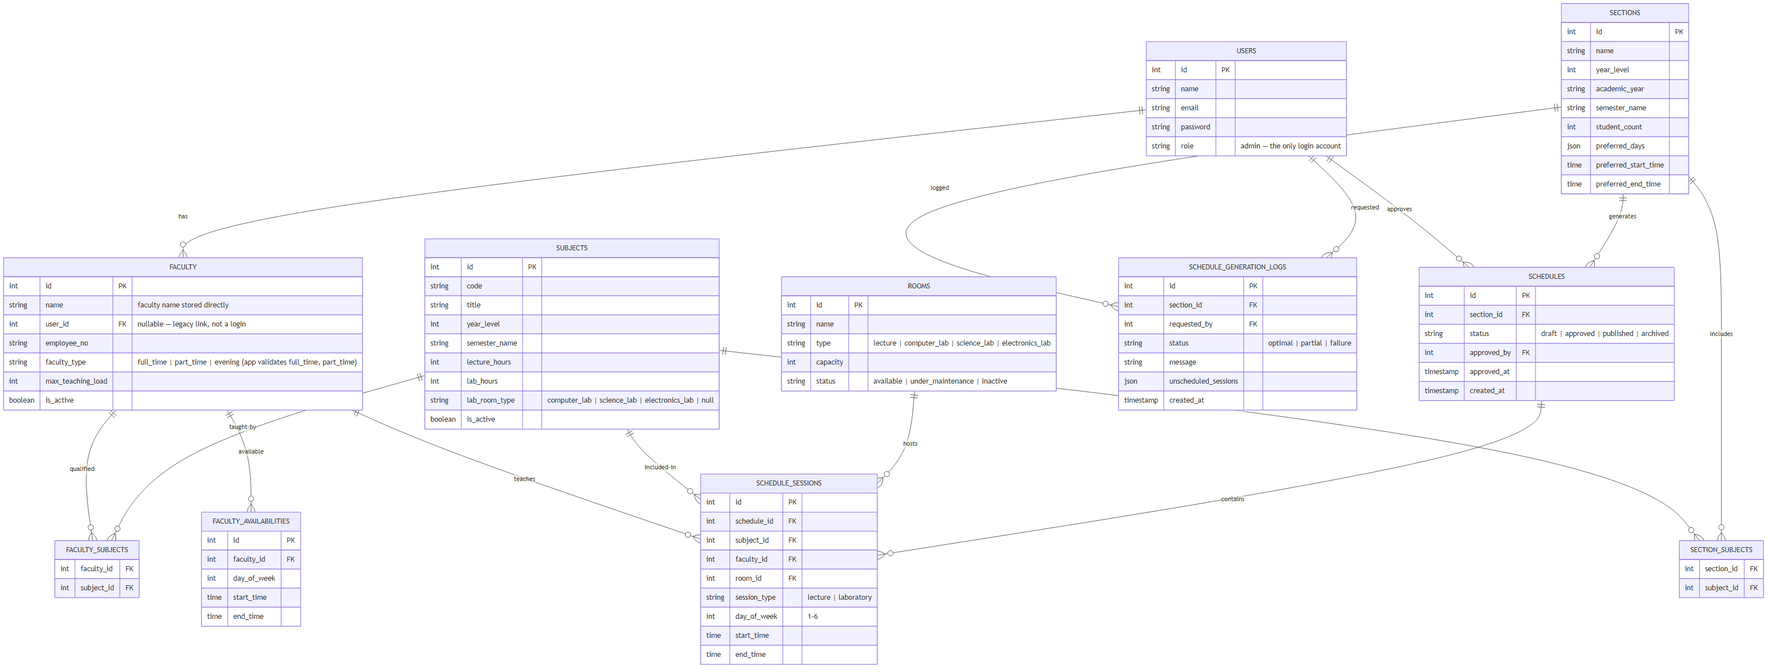
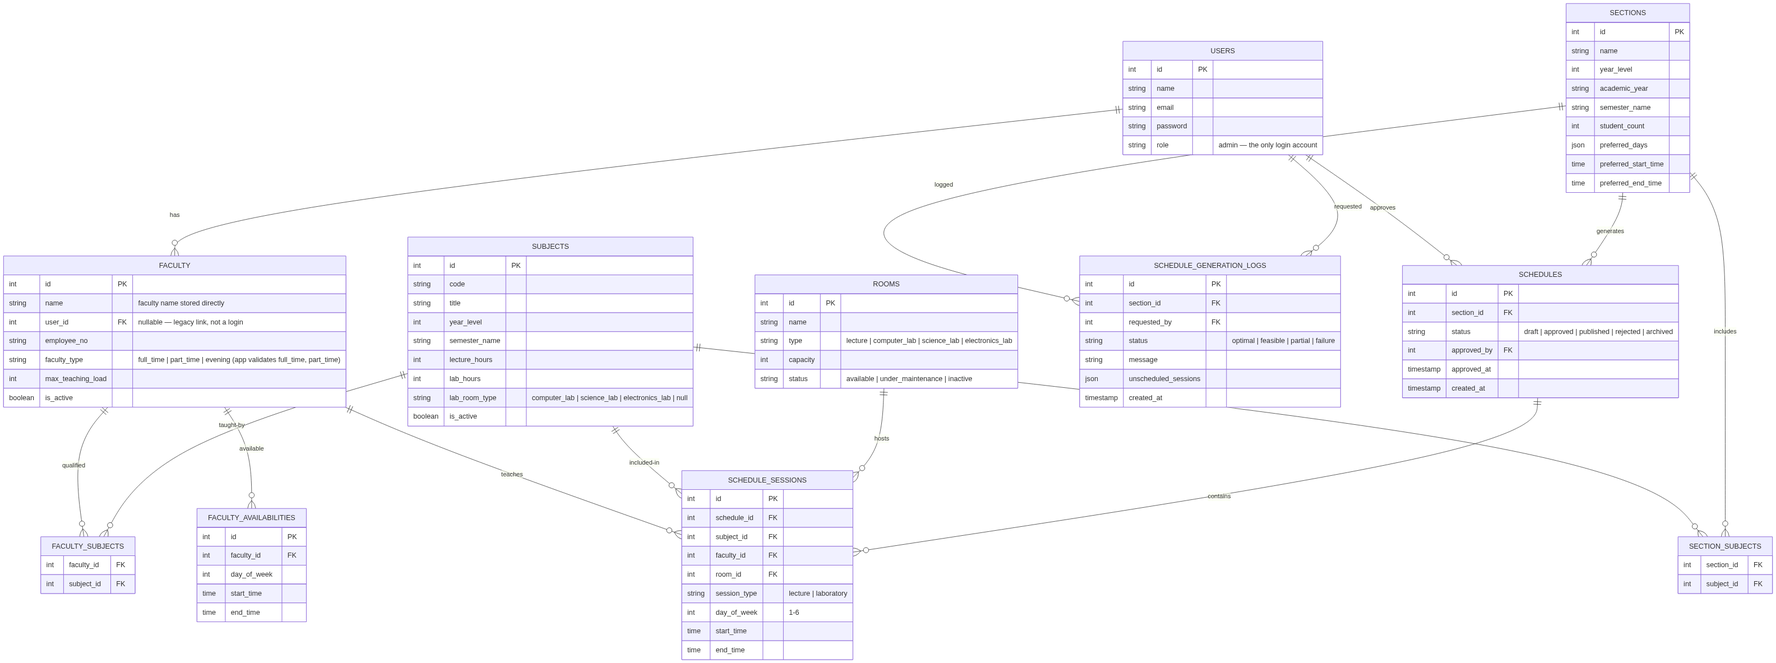
Synchronize docs and figures with the accepted-status behavior
FEASIBLE now appears wherever the solver statuses are listed (README, SRS,
requirements, architecture, defense guide, user flow, dev log, DFD) and the
generation-log vocabulary gains 'feasible'; the ERD value lists also pick up
the 'rejected' schedule status the code has always written. Program-Flow
records the live re-verification (before/after rows for both fixes, the live
INFEASIBLE result with per-session reasons, the reject dead end, and the
finding that student_count cannot be set through the API), and the three
affected figures are re-rendered from their updated Mermaid sources.

diff --git a/documentation/Program-Flow.md b/documentation/Program-Flow.md
@@ -58,7 +58,7 @@ flowchart TD
     end
 
     SOL -->|"200 OPTIMAL · FEASIBLE · PARTIAL · INFEASIBLE · ERROR"| DEC{"Laravel accepts status?"}
-    DEC -- "OPTIMAL or PARTIAL" --> DRAFT["Create Schedule status=draft<br/>+ ScheduleSession rows for placed sessions<br/>+ ScheduleGenerationLog"]
+    DEC -- "OPTIMAL, FEASIBLE or PARTIAL" --> DRAFT["Create Schedule status=draft<br/>+ ScheduleSession rows for placed sessions<br/>+ ScheduleGenerationLog"]
     DEC -- "anything else" --> FLOG["ScheduleGenerationLog status=failure<br/>422 to the browser"]
     DRAFT --> ADMIN["Admin reviews draft on AdminDashboard"]
     ADMIN --> EDIT{"Manual edit needed?"}
@@ -123,14 +123,14 @@ sequenceDiagram
 |---|---|---|
 | 200 | controllers | Successful read/update/approve/publish/unpublish |
 | 201 | `SubjectController::store`, `SectionController::store` (the section create was observed on the wire) | Record created |
-| 401 | `auth:sanctum` | Missing or invalid Bearer token |
+| 401 | `auth:sanctum` | Missing or invalid Bearer token — observed; without an `Accept: application/json` header the same request answers **302** to the login route instead, which is why every frontend call sends the header |
 | 403 | `EnsureUserIsAdmin` — observed; the `authorizeAdmin()` / role checks inside the controllers sit behind that middleware and are not reachable through these routes | Authenticated but not an `admin` |
 | 404 | Route-model binding (`/schedules/{schedule}`, `/sections/{section}`, …) — observed, returning the framework's exception payload while `APP_DEBUG=true`; FastAPI answers its own 404 for an unknown section | Row does not exist |
 | 422 | `$request->validate(...)`, business-rule gates (Gates 1–5), wrong-status actions | Input rejected — the standard rejection code for this program |
-| 502 | `ScheduleController::generate` — observed as `{"error":"AI engine request failed","details":"<engine response body>"}` | The AI engine answered with a non-2xx **response** |
-| 500 | **Observed:** the engine is unreachable — `Illuminate\Http\Client\ConnectionException` (cURL error 7) escapes `generate()` unhandled and **no generation log row is written**. Also expected, but *not* exercised: the engine's own `psycopg2.Error` / unexpected-exception handler | Connection refused, database or unexpected solver-side failure |
+| 502 | `ScheduleController::generate` — two paths, both observed: a non-2xx engine response → `{"error":"AI engine request failed","details":"<engine response body>"}`, and an **unreachable** engine → `{"error":"AI engine unreachable","details":"<connection error>"}` | The AI engine answered with a non-2xx **response**, or could not be reached at all |
+| 500 | Traced from source, not exercised: the engine's own `psycopg2.Error` / unexpected-exception handler. A Laravel-side connection failure used to surface here — it is now caught and answered as 502 (§6, observation 5) | Database or unexpected solver-side failure inside the engine |
 
-Every row above was exercised against the running stack (`php artisan serve` + `uvicorn`) on September 27, 2026, except the second half of the 500 row; §7 lists the requests and what came back.
+Every row above was exercised against the running stack (`php artisan serve` + `uvicorn`) on September 27, 2026, except the 500 row, which is read from the engine's exception handler; §7 lists the requests and what came back.
 
 **Note on login failures:** `AuthController::login` throws a `ValidationException` for both wrong credentials and a non-admin role, so the program answers **422 with an `email` error message** (not 401) — the frontend sends `Accept: application/json`, which is what makes Laravel render that as JSON instead of a redirect.
 
@@ -181,12 +181,12 @@ flowchart TD
     PRECHK --> CP["CP-SAT model with the 8 constraint categories<br/>+ section window/self-overlap, Maximize(placed sessions)<br/>max_time_in_seconds = 15"]
     CP --> OUT["{ status, message, sessions[] }<br/>placed sessions carry day/start/end/room/faculty,<br/>unplaced ones carry a reason"]
     OUT --> DEC2{"Laravel accepts the status?"}
-    DEC2 -- "OPTIMAL or PARTIAL" --> W["Create Schedule (status=draft) + one ScheduleSession<br/>per placed session + ScheduleGenerationLog<br/>(status optimal | partial, unscheduled list stored)"]
+    DEC2 -- "OPTIMAL, FEASIBLE or PARTIAL" --> W["Create Schedule (status=draft) + one ScheduleSession<br/>per placed session + ScheduleGenerationLog<br/>(status optimal | feasible | partial, unscheduled list stored)"]
     W --> UI["200 { schedule_id, status, sessions, unscheduled }<br/>AdminDashboard shows 'Status: X — N sessions created'"]
     DEC2 -- "anything else" --> FAIL["ScheduleGenerationLog status=failure<br/>422 with the engine message"]
 ```
 
-- The engine's own failure codes surface to the browser as **502** (non-2xx from FastAPI) — the Laravel call has no `try`/`catch`.
+- The engine's own failure codes surface to the browser as **502** (non-2xx from FastAPI), and an **unreachable** engine is caught and answered with the same 502 shape — each path writes its own `failure` log row before responding.
 - Draft archiving happens **before** the engine is called, so a failed generation still leaves the section with its previous drafts archived — **observed**: a `FEASIBLE` rejection and an engine-500 run each archived the section's existing draft even though no new schedule was created, and a connection failure archived it too.
 - The solver is a pure function: `ai-engine/api/app.py` does the reading (psycopg2) and `ai-engine/solver/scheduler.py` does the solving, with no HTTP code inside it.
 
@@ -284,7 +284,7 @@ This is protection layer 2 — the same rules that the solver enforces at genera
 
 | Action (code path) | Allowed from | Result | Rejection |
 |---|---|---|---|
-| `ScheduleController::generate` (success) | — | creates `draft` | 422 if the status returned by the engine is not OPTIMAL/PARTIAL |
+| `ScheduleController::generate` (success) | — | creates `draft` | 422 if the status returned by the engine is not OPTIMAL/FEASIBLE/PARTIAL |
 | `ScheduleController::generate` (start) | `draft` | bulk `draft → archived` for that section | — |
 | `ScheduleApprovalController::approve` | `draft` | `approved` + `approved_by` + `approved_at` | 422 with current status |
 | `ScheduleApprovalController::publish` | `approved` | `published`; older `approved`/`published` of the same section → `archived` | 422 on wrong status, 422 on conflicts |
@@ -302,18 +302,18 @@ Every transition in this table was exercised through the API, including the wron
 | Returned status | When the solver sets it | Laravel's handling (`ScheduleController`) |
 |---|---|---|
 | `OPTIMAL` | Every computed session placed **and** the solver proved the objective optimal | Accepted → draft + log `optimal` |
-| `FEASIBLE` | Every computed session placed but the 15 s limit was hit before optimality was proven | **Not** in the accepted list → log `failure`, 422 — **observed** against the running API: the response was `{"status":"FEASIBLE","message":"No feasible schedule found."}` and the log row read `status=failure`, `message=No feasible schedule found.` (see §6, observation 1) |
+| `FEASIBLE` | Every computed session placed but the 15 s limit was hit before optimality was proven | **Accepted** → draft + log `feasible`, exactly like `OPTIMAL` (it used to be rejected as a failure — §6, observation 1, and the before/after row in §7) |
 | `PARTIAL` | Some sessions placed (`scheduled_count > 0`) — each unplaced session carries a reason | Accepted → draft + log `partial`, unscheduled list stored |
-| `INFEASIBLE` | No session could be placed; reasons reported per session | Log `failure`, 422 with the engine message |
+| `INFEASIBLE` | No session could be placed; reasons reported per session | Log `failure`, 422 with the engine message — observed live as `{"status":"INFEASIBLE","message":"No sessions could be scheduled. See individual reasons."}` with all three unplaced sessions stored, each carrying a plain-language reason (`No room of type 'lecture' exists for this lecture session.`) |
 | `ERROR` | The section has no subject with lecture or lab hours defined (engine-side guard in `app.py` returns 400 earlier for "no subjects assigned") | Log `failure`, 422 |
 
 Session-level reasons are always preserved: structurally impossible sessions (no room of the required type/status/capacity, no qualified faculty) get a reason during the pre-check pass, and sessions that the CP-SAT model could not place get the "could not fit given room, faculty, or time conflicts" reason.
 
 ### 4.3 Generation log vocabulary
 
-`ScheduleController` writes `schedule_generation_logs.status` as **lowercase**: `strtolower($result['status'])` → `optimal` or `partial` on success, and the literal `failure` for every rejected/failed path (engine unreachable, non-optimal status). `unscheduled_sessions` stores the unplaced sessions with their reasons, which is exactly what the Reports → Generation Logs tab displays.
+`ScheduleController` writes `schedule_generation_logs.status` as **lowercase**: `strtolower($result['status'])` → `optimal`, `feasible` or `partial` on success, and the literal `failure` for every failed path (unreachable engine, non-2xx engine response, or a status Laravel does not accept — currently only `INFEASIBLE` and `ERROR`). `unscheduled_sessions` stores the unplaced sessions with their reasons, which is exactly what the Reports → Generation Logs tab displays.
 
-**Observed while exercising the API:** the stored vocabulary is exactly `optimal | partial | failure` (the demo database holds 32 / 9 / 12 of them); a `502` writes the engine's response body into `message`; a subject–section mismatch blocked by Gate 3 writes **no** row (like the connection failure); and log rows **cascade-delete with their section** (`section_id … cascadeOnDelete`), observed when the probe section was deleted.
+**Observed while exercising the API:** before this pass's fix the stored vocabulary was exactly `optimal | partial | failure` (the demo database holds 32 / 9 / 12 of them) and an unreachable engine wrote nothing at all; now a fully-placed `FEASIBLE` run stores `feasible`, and both 502 paths store `failure` with the engine's body (or the connection error) in `message`. A subject–section mismatch blocked by Gate 3 still writes **no** row, and log rows **cascade-delete with their section** (`section_id … cascadeOnDelete`), observed when the probe section was deleted.
 
 ### 4.4 Frontend state handling
 
@@ -354,16 +354,19 @@ Session-level reasons are always preserved: structurally impossible sessions (no
 
 Documentation-only notes — nothing here was changed, and each is traceable to the file named. They are recorded so the code and the manuscript tell the same story.
 
-1. **`FEASIBLE` is treated as a failure by Laravel — observed, not inferred.** The solver returns `FEASIBLE` when every session is placed but optimality was not proven within the 15 s limit (`scheduler.py`, `overall_status = solver.StatusName(status)`), while `ScheduleController::generate` accepts only `['OPTIMAL', 'PARTIAL']`. Driving the real endpoint with a `FEASIBLE` payload returned **422 `{"status":"FEASIBLE","message":"No feasible schedule found."}`** and wrote a `failure` log row — a fully-placed schedule reported to the Admin as "no feasible schedule found". The 32-test suite asserts that `FEASIBLE` is a legitimate fully-placed result, so this is reachable in practice once a model exhausts the 15 s budget. Follow-up for the team: accept `FEASIBLE` alongside `OPTIMAL`, or map it to the same success path.
+1. **`FEASIBLE` was treated as a failure by Laravel — observed, then fixed.** The solver returns `FEASIBLE` when every session is placed but optimality was not proven within the 15 s limit (`scheduler.py`, `overall_status = solver.StatusName(status)`), while `ScheduleController::generate` accepted only `['OPTIMAL', 'PARTIAL']`. Driving the real endpoint with a `FEASIBLE` payload returned **422 `{"status":"FEASIBLE","message":"No feasible schedule found."}`** and wrote a `failure` log row — a fully-placed schedule reported to the Admin as "no feasible schedule found". **Fixed:** `FEASIBLE` is now accepted alongside `OPTIMAL`/`PARTIAL` and logged as `feasible`, with regression tests in `ScheduleGenerationSectionTest` (`feasible_result_is_accepted_and_logged_as_feasible`, plus an `INFEASIBLE` guard so the boundary cannot drift).
 2. **The `GET /api/login` fallback route is unreachable and returns nothing.** It is declared *inside* the `auth:sanctum` + `admin` groups in `routes/api.php`, and its closure builds a JSON response without returning it, so an unauthenticated caller gets 401 from the guard and a non-admin caller gets 403 from the middleware before the closure runs.
-3. **`rejected` is a real schedule status but appears in no documented lifecycle.** `ScheduleApprovalController::reject` writes `status = 'rejected'` and `destroy` allows only `draft`/`archived`; the ERD and lifecycle lists in `System-Architecture.md` / `User-Flow.md` mention only draft, approved, published, archived.
-4. **Log-status vocabulary differs from the migration comment.** `create_schedule_generation_logs_table` comments the column as "success, partial, failure"; the code writes `optimal`, `partial`, or `failure`. The ERD value list (`optimal | partial | failure`) matches the code.
-5. **The Laravel → engine call has no exception handling — observed.** Only a non-2xx *response* becomes a 502 (verified with the engine answering 400 and 500). With the engine stopped, the endpoint returned **500** carrying `Illuminate\Http\Client\ConnectionException` and `cURL error 7: Failed to connect to 127.0.0.1:8001`, and — unlike every other failure path — wrote **no** generation log row, so that outage leaves no trace in the Reports → Generation Logs tab. Follow-up for the team: catch the connection exception and answer 502 with a plain-language message while still logging the attempt.
+3. **`rejected` is a real schedule status that appears in no documented lifecycle — partially fixed, and observed live.** `ScheduleApprovalController::reject` writes `status = 'rejected'` (observed: `200` on a draft). The ERD value lists now include `rejected`, but the state is a dead end in the API: `DELETE` answers `422 Only draft or archived schedules can be deleted.` and `approve` answers `422 … currently 'rejected'.`. There is also no reject button in the UI, so a rejected schedule can only be cleared by editing the database — unless `destroy` (and a way back to `draft`) is added.
+4. **Log-status vocabulary differs from the migration comment — fixed.** `create_schedule_generation_logs_table` commented the column as "success, partial, failure" while the code wrote `optimal`/`partial`/`failure`; the comment now reads `optimal | feasible | partial | failure`, matching the code and the ERD value list.
+5. **The Laravel → engine call had no exception handling — observed, then fixed.** Only a non-2xx *response* became a 502 (verified with the engine answering 400 and 500); with the engine stopped the endpoint returned **500** carrying `Illuminate\Http\Client\ConnectionException` and `cURL error 7: Failed to connect to 127.0.0.1:8001`, and — unlike every other failure path — wrote **no** generation log row, so an engine outage left no trace in the Reports → Generation Logs tab. **Fixed:** `generate()` now catches `ConnectionException` and answers **502 `{"error":"AI engine unreachable","details":…}`** after writing its `failure` row (`unreachable_engine_returns_502_and_writes_a_failure_log`).
 6. **Engine time budget vs HTTP budget.** The solver is capped at 15 s (`max_time_in_seconds = 15.0`) inside a 30 s HTTP timeout, and one request is issued per section — sequential generation of many sections can approach the HTTP limit before the solver's own budget matters.
+7. **`student_count` cannot be set through the application — observed.** The solver's capacity constraint reads `sections.student_count`, but the column is not in `Section::$fillable` and is absent from `SectionController`'s validation rules, so `Section::update(['student_count' => …])` is silently ignored and the Sections page never sends it. Every section created through the Admin UI therefore keeps the migration default (30), and the capacity constraint is effectively governed by that number unless the row is updated directly (`$section->student_count = …; $section->save();`, which does work). Follow-up for the team: expose student count on the section form and add it to the validated fields and `$fillable`.
 
 ---
 
 ## 7. Verification — What Was Exercised
+
+The two defects this pass fixed (observations 1 and 5 in §6) were re-verified on the same live stack after the change, and the affected rows below record both the before and after observations.
 
 Every status code and branch in §2, §3 and §4 was driven against the running stack on September 27, 2026: `php artisan serve` on port 8000, `uvicorn api.app:app` on port 8001, PostgreSQL on 5432, and `curl` with a real Sanctum token from `POST /api/login` (seeded admin, `admin@example.com`). The two rows marked with a stub below used a throwaway in-process server on port 8001 (removed afterwards) so that the `FEASIBLE` and engine-error branches could be reached deterministically; every other row ran against the real FastAPI engine.
 
@@ -376,8 +379,8 @@ Every status code and branch in §2, §3 and §4 was driven against the running 
 | Middleware gate | admin-only route with a token minted for that non-admin | `403 {"message":"Forbidden. Admin access required."}`; the same token on `/api/me` → `200` |
 | Unknown row | `GET /api/schedules/999999` | `404`, framework exception payload |
 | Subject-less generation | scratch section with no subjects → `POST /schedules/generate/{id}` | engine `400` → Laravel `502 {"error":"AI engine request failed","details":"{\"detail\":\"Section N has no subjects assigned.\"}"}` + `failure` log row |
-| Engine unreachable | engine stopped, `POST /schedules/generate/5` | `500` + `ConnectionException` (cURL error 7), **no** log row |
-| `FEASIBLE` result | stub answering `{"status":"FEASIBLE","message":null,"sessions":[]}` | `422 {"status":"FEASIBLE","message":"No feasible schedule found."}` + `failure` log row |
+| Engine unreachable | engine stopped, `POST /schedules/generate/5` | **before:** `500` + `ConnectionException` (cURL error 7), **no** log row; **after the fix:** `502 {"error":"AI engine unreachable","details":"cURL error 7: …"}` + a `failure` log row |
+| `FEASIBLE` result | stub answering `{"status":"FEASIBLE","message":null,"sessions":[…]}` | **before:** `422 {"status":"FEASIBLE","message":"No feasible schedule found."}` + `failure` row; **after the fix:** `200` with a new `draft`, its sessions stored, and a `feasible` log row reading "All sessions scheduled successfully." |
 | Engine 500 response | stub answering HTTP 500 | `502` + `failure` log row carrying the engine body |
 | Section–subject gate | mismatched subject attached to a section, then generate | `422` naming the offending subject; engine access log unchanged, no log row, no schedule created |
 | Happy-path generation | `POST /schedules/generate/5` with valid data | `200 {schedule_id, status:"OPTIMAL", sessions, unscheduled}`, new `draft`, `optimal` log row, older draft auto-archived |
@@ -389,7 +392,9 @@ Every status code and branch in §2, §3 and §4 was driven against the running 
 | Edit gate (all classes) | `PUT /schedules/sessions/{id}` onto a clashing slot | `422` listing room type, faculty availability, self-overlap, cross-section faculty and cross-section room conflicts |
 | Edit gate (clean / wrong state) | valid change; session on a published schedule | `200` with the reloaded relations; `422 Cannot edit a session on a 'published' schedule.` |
 | Same-section auto-archive | publish a second schedule for a section that already has a published one | `200`, previous schedule → `archived` |
+| `INFEASIBLE` result | section given a lab subject and a student count above every room capacity, then generate | `422 {"status":"INFEASIBLE","message":"No sessions could be scheduled. See individual reasons."}` + `failure` row storing all three sessions with reasons (`No room of type 'lecture' exists for this lecture session.`, `No room of type 'computer_lab' exists for this laboratory session.`) |
+| `reject` transition | `PATCH /schedules/{id}/reject` on a draft | `200` → `status = rejected`; `DELETE` afterwards → `422 Only draft or archived schedules can be deleted.`; `approve` → `422 … currently 'rejected'.` |
 
-**Still read from source, not exercised here:** the engine's own `500` paths (`psycopg2.Error`, unexpected exception), FastAPI's `404` for a deleted section, the five `GET /api/reports/*` endpoints (§3.6), the `reject` transition, and the frontend-side behaviors described in §4.4 — those were traced in code and in the earlier UI walkthrough, not re-run in this pass. The 32-case AI-engine suite was re-run and passes (`Ran 32 tests … OK`), which is what makes `FEASIBLE` a real, reachable engine result.
+**Still read from source, not exercised here:** the engine's own `500` paths (`psycopg2.Error`, unexpected exception), FastAPI's `404` for a deleted section, and the five `GET /api/reports/*` endpoints (§3.6), plus the frontend-side behaviors described in §4.4 — those were traced in code and in the earlier UI walkthrough, not re-run in this pass. The 32-case AI-engine suite was re-run and passes (`Ran 32 tests … OK`), which is what makes `FEASIBLE` a real, reachable engine result.
 
 **State restored:** every row created for these probes (schedules, sessions, generation-log rows, the scratch section, the non-admin account) was deleted afterwards, and the demo database's pre-probe counts are back: 32 schedules (29 archived / 1 published / 2 drafts), 87 sessions, 53 generation logs.

diff --git a/documentation/System_Defense_Guide.md b/documentation/System_Defense_Guide.md
@@ -103,8 +103,8 @@ sequenceDiagram
     A->>DB: Query section, subjects, faculty + availabilities, rooms
     DB-->>A: data
     A->>A: OR-Tools CP-SAT solver (8 constraints)
-    A-->>L: {status: OPTIMAL/PARTIAL/INFEASIBLE, sessions[]}
-    alt OPTIMAL or PARTIAL
+    A-->>L: {status: OPTIMAL/FEASIBLE/PARTIAL/INFEASIBLE, sessions[]}
+    alt OPTIMAL, FEASIBLE or PARTIAL
         L->>DB: Create Schedule (draft) + ScheduleSession rows
         L->>DB: Write ScheduleGenerationLog
         L-->>F: 200 {schedule_id, sessions, unscheduled}
@@ -232,7 +232,7 @@ erDiagram
     SCHEDULES {
         int id PK
         int section_id FK
-        string status "draft | approved | published | archived"
+        string status "draft | approved | published | rejected | archived"
         int approved_by FK
         timestamp approved_at
         timestamp created_at
@@ -272,7 +272,7 @@ erDiagram
         int id PK
         int section_id FK
         int requested_by FK
-        string status "optimal | partial | failure"
+        string status "optimal | feasible | partial | failure"
         string message
         json unscheduled_sessions
         timestamp created_at
@@ -376,7 +376,7 @@ erDiagram
 | Reports | ✅ Complete | Faculty workload, room utilization |
 | Print/Download (PDF) | ✅ Complete | Print view for published schedules → hard-copy distribution |
 | Frontend | ✅ Complete | React + TypeScript |
-| Testing | ✅ Complete | Backend: 23 feature tests (100 assertions) · AI engine: 32 solver unit tests · frontend typecheck + production build |
+| Testing | ✅ Complete | Backend: 26 feature tests (116 assertions) · AI engine: 32 solver unit tests · frontend typecheck + production build |
 
 ---
 
@@ -430,7 +430,7 @@ POST http://127.0.0.1:8001/generate-schedule/{section_id}
 - Laravel sends the section ID
 - FastAPI queries the database directly for required data
 - FastAPI runs the CP-SAT solver
-- FastAPI returns the result (OPTIMAL/PARTIAL/INFEASIBLE)
+- FastAPI returns the result (OPTIMAL/FEASIBLE/PARTIAL/INFEASIBLE)
 - Laravel persists the result to the database
 
 This is a synchronous request-response pattern, appropriate for this use case.
@@ -454,7 +454,7 @@ We chose CP over:
 CP-SAT (Constraint Programming - SAT solver) is Google's industrial-grade solver that:
 - Guarantees mathematical proof of solution validity
 - Handles complex constraint combinations efficiently
-- Provides OPTIMAL/PARTIAL/INFEASIBLE status with explanations
+- Provides OPTIMAL/FEASIBLE/PARTIAL/INFEASIBLE status with explanations
 
 ---
 
@@ -622,7 +622,7 @@ For university scale, architectural changes would be needed, but the core constr
 1. **Ad-hoc testing**: Throughout development
 2. **AI engine unit tests**: 32 automated tests (Python standard-library `unittest`) directly exercise the solver's `generate_schedule()` with controlled fixtures — covering faculty qualification, day-level availability, room type matching, room capacity, faculty/room no-double-booking, maximum teaching load, cross-section conflicts, preferred scheduling window, and partial/infeasible handling. Final run: 32 passed, 0 failed, 0 skipped, 0 warnings/errors. The tests respect all supported solver statuses (OPTIMAL, FEASIBLE, PARTIAL, INFEASIBLE) — not every scenario is OPTIMAL by design
 3. **End-to-end testing**: Full workflow verification (generate → review → approve → publish → print → unpublish)
-4. **Automated backend suite**: 23 Laravel feature tests (100 assertions) — authentication, subject/section validation rules, generation attribution, publish gate — plus frontend typecheck and production build
+4. **Automated backend suite**: 26 Laravel feature tests (116 assertions) — authentication, subject/section validation rules, generation attribution, publish gate, solver-status acceptance (a fully-placed `FEASIBLE` result is accepted, `INFEASIBLE` rejected), and the unreachable-engine 502 path — plus frontend typecheck and production build
 
 Test coverage:
 - Authentication & RBAC ✅

diff --git a/documentation/Progress-report.md b/documentation/Progress-report.md
@@ -1,6 +1,6 @@
 # Progress Report — IT Faculty Scheduling System
 
-*Updated: September 16, 2026. Covers development from July 18, 2026 to present.*
+*Updated: September 27, 2026. Covers development from July 18, 2026 to present.*
 
 ---
 
@@ -63,9 +63,15 @@ Final hardening round before the design defense:
 - **Final regression verification passed**: backend 23 tests (100 assertions), AI engine 32 tests, frontend production build, and the full live lifecycle (generate → review → approve → publish → print → unpublish) with no regressions
 - **Program-level flow documented**: `documentation/Program-Flow.md` traces each execution step to its file (entry points, request lifecycle, per-process flows, validation-gate placement, status handling) with the rendered figure in `documentation/screenshots/11-program-flow.png`
 
+### Phase 12 — Live API Verification & Scheduling Defect Fixes (September 27, 2026)
+Every documented status code and validation gate was exercised against the running stack (Laravel on 8000, FastAPI on 8001, `curl` with a real Sanctum token). The pass surfaced two defects in the generation path, both now fixed:
+- **A fully-placed `FEASIBLE` result was reported as a failure.** The solver returns `FEASIBLE` when every session is placed but its 15 s budget expires before optimality is proven; `ScheduleController` accepted only `OPTIMAL`/`PARTIAL`, so a complete schedule was answered with 422 "No feasible schedule found." `FEASIBLE` is now accepted like `OPTIMAL`/`PARTIAL` and logged as `feasible`
+- **An unreachable AI engine returned a raw 500 and logged nothing.** The connection failure is now caught: the endpoint answers `502 {"error":"AI engine unreachable", ...}` and writes a `failure` generation-log row, so an engine outage is visible in the Reports → Generation Logs tab
+- **Regression tests added** for both fixes plus an `INFEASIBLE` guard so the accepted-status boundary cannot drift: backend suite is now **26 tests / 116 assertions** (was 23 / 100), all passing; the AI-engine suite stays at 32
+
 ---
 
-## 2. Current System Status (as of September 16, 2026)
+## 2. Current System Status (as of September 27, 2026)
 
 ### Architecture
 React (Frontend, port 5173) → Laravel (API/Auth, port 8000) → Python FastAPI (AI/CP-SAT, port 8001) → PostgreSQL
@@ -106,10 +112,10 @@ Admin Login → Manage Scheduling Data → Assign Valid Subjects
 Subject assignments are validated before generation (year/semester match + lab consistency, HTTP 422 on violation).
 
 ### Test Results
-- Backend feature tests: **23 passed (100 assertions)** — authentication, subject/section validation rules, generation attribution, publish gate
+- Backend feature tests: **26 passed (116 assertions)** — authentication, subject/section validation rules, generation attribution, publish gate, solver-status acceptance (FEASIBLE accepted, INFEASIBLE rejected), unreachable-engine handling
 - AI engine unit tests: **32 passed, 0 failed, 0 skipped, 0 warnings/errors** — solver exercised directly with controlled fixtures
 - TypeScript typecheck clean; production build passes
-- Live-verified: admin login, faculty records with names, reports, conflict detection, publish gate, print view, unpublish
+- Live-verified: admin login, faculty records with names, reports, conflict detection, publish gate, print view, unpublish — plus the September 27 API pass that fixed and re-verified the `FEASIBLE` and unreachable-engine defects
 
 ### Frontend Status
 

diff --git a/documentation/System-Architecture.md b/documentation/System-Architecture.md
@@ -41,7 +41,7 @@ graph TB
 
     Frontend -->|HTTP/JSON + Bearer token| Backend
     Backend -->|HTTP POST /generate-schedule/id| AI
-    AI -->|OPTIMAL / PARTIAL / INFEASIBLE| Backend
+    AI -->|OPTIMAL / FEASIBLE / PARTIAL / INFEASIBLE| Backend
     AI -.direct psycopg2 read.-> DB
     Backend -.Eloquent ORM.-> DB
     Backend -->|JSON| Frontend
@@ -66,8 +66,8 @@ sequenceDiagram
     A->>DB: Query section, subjects, faculty + availabilities,<br/>available rooms, existing approved/published sessions
     DB-->>A: data
     A->>A: OR-Tools CP-SAT solver (8 constraints)
-    A-->>L: {status: OPTIMAL/PARTIAL/INFEASIBLE, sessions[]}
-    alt OPTIMAL or PARTIAL
+    A-->>L: {status: OPTIMAL/FEASIBLE/PARTIAL/INFEASIBLE, sessions[]}
+    alt OPTIMAL, FEASIBLE or PARTIAL
         L->>DB: Create Schedule (draft) + ScheduleSession rows
         L->>DB: Write ScheduleGenerationLog
         L-->>F: 200 {schedule_id, sessions, unscheduled}
@@ -241,7 +241,7 @@ flowchart TD
     F2 --> E
     F1 -- yes --> F3[FastAPI → OR-Tools CP-SAT<br/>candidate schedule]
     F3 --> G{Result}
-    G -- OPTIMAL / PARTIAL --> H[DRAFT: Review / Manual Edit<br/>server-side conflict detection]
+    G -- OPTIMAL / FEASIBLE / PARTIAL --> H[DRAFT: Review / Manual Edit<br/>server-side conflict detection]
     G -- INFEASIBLE --> I[Reasons reported<br/>fix data and retry]
     I --> E
     H --> J[Approve]
@@ -318,7 +318,7 @@ The Reports page provides analytics and summaries with the following tabs:
 
 > **Entity naming:** ER entities are shown in singular form (FACULTY, SUBJECTS, …); the physical PostgreSQL tables use Laravel's plural convention (`faculties`, `subjects`, …). They are the same structures.
 >
-> **Two different status fields (not a wording drift):** `SCHEDULES.status` and solver results use uppercase `OPTIMAL | FEASIBLE | PARTIAL | INFEASIBLE` (the FastAPI/OR-Tools response values), while `SCHEDULE_GENERATION_LOGS.status` is stored lowercase (`optimal | partial | failure`) — exactly as written by `ScheduleController`.
+> **Two different status fields (not a wording drift):** `SCHEDULES.status` and solver results use uppercase `OPTIMAL | FEASIBLE | PARTIAL | INFEASIBLE` (the FastAPI/OR-Tools response values), while `SCHEDULE_GENERATION_LOGS.status` is stored lowercase (`optimal | feasible | partial | failure`) — exactly as written by `ScheduleController`. `OPTIMAL`, `FEASIBLE` and `PARTIAL` are all accepted as successful results; `INFEASIBLE` (and the engine's `ERROR`) are logged as `failure` and answered with 422.
 
 ```mermaid
 erDiagram
@@ -390,7 +390,7 @@ erDiagram
     SCHEDULES {
         int id PK
         int section_id FK
-        string status "draft | approved | published | archived"
+        string status "draft | approved | published | rejected | archived"
         int approved_by FK
         timestamp approved_at
         timestamp created_at
@@ -430,7 +430,7 @@ erDiagram
         int id PK
         int section_id FK
         int requested_by FK
-        string status "optimal | partial | failure"
+        string status "optimal | feasible | partial | failure"
         string message
         json unscheduled_sessions
         timestamp created_at

diff --git a/documentation/Manuscript_Update_Brief.md b/documentation/Manuscript_Update_Brief.md
@@ -51,7 +51,7 @@ Generate > Draft > Review/Edit > Approve > Publish Conflict Gate > Published > P
 - The 8 categories: (1) faculty qualification, (2) faculty availability, (3) room type matching, (4) room capacity, (5) faculty no double-booking, (6) room no double-booking, (7) maximum teaching load, (8) cross-section conflicts.
 - IMPORTANT — faculty availability wording: the solver restricts faculty by their available DAYS; the section's preferred start/end window is the enforced time window. Do not write "no scheduling outside declared hours" — the code does not enforce hourly availability.
 - IMPORTANT — max teaching load IS enforced (old drafts claimed it was not; verified in ai-engine/solver/scheduler.py).
-- Results: OPTIMAL (all placed, optimality proven) / FEASIBLE (valid, optimality unproven) / PARTIAL (some placed, with reasons: no suitable room, no qualified faculty, window too short, capacity/type limits, other conflicts) / INFEASIBLE (none placed).
+- Results: OPTIMAL (all placed, optimality proven) / FEASIBLE (all placed, optimality unproven — accepted exactly like OPTIMAL) / PARTIAL (some placed, with reasons: no suitable room, no qualified faculty, window too short, capacity/type limits, other conflicts) / INFEASIBLE (none placed).
 - Never claim "all sections generate OPTIMAL with zero unscheduled sessions." Correct: "Best-effort: maximizes the number of successfully scheduled sessions and reports reasons for the rest."
 - Call it "AI-assisted constraint-based scheduling" — not machine learning.
 
@@ -74,7 +74,7 @@ Remove obsolete: overview, workload, sections, generation-logs.
 
 ## 8. Testing chapter — rewrite
 
-- Replace any "18/18 manual tests" claim with the automated suite: 23 backend feature tests (100 assertions) including section/year-level generation tests and the subject-validation rule tests (subject–section year/semester integrity, subject lab consistency), run on an isolated scheduling_system_testing database, plus 32 AI-engine unit tests (Python stdlib unittest) that exercise the CP-SAT solver directly — 32 passed, 0 failed, 0 skipped, 0 warnings/errors.
+- Replace any "18/18 manual tests" claim with the automated suite: 26 backend feature tests (116 assertions) including section/year-level generation tests, the subject-validation rule tests (subject–section year/semester integrity, subject lab consistency), solver-status acceptance (a fully-placed `FEASIBLE` result is accepted, `INFEASIBLE` is rejected) and the unreachable-engine 502 path, run on an isolated scheduling_system_testing database, plus 32 AI-engine unit tests (Python stdlib unittest) that exercise the CP-SAT solver directly — 32 passed, 0 failed, 0 skipped, 0 warnings/errors.
 - Add the live end-to-end integration test (September 2026): admin login > AI generated BIT-3A's schedule OPTIMAL with all constraints verified (IAS lab correctly placed in a computer lab) > approve > publish through the gate > unpublish > all 5 reports — all passed.
 - Frontend TypeScript typecheck + production build pass.
 

diff --git a/documentation/Requirements.md b/documentation/Requirements.md
@@ -41,7 +41,7 @@
 ### ✅ Fully Implemented
 - Authentication (Sanctum, admin-only login)
 - CRUD for Faculty, Subjects, Rooms, Sections, Users (admin accounts)
-- AI Schedule Generation (OPTIMAL / PARTIAL / INFEASIBLE)
+- AI Schedule Generation (OPTIMAL / FEASIBLE / PARTIAL / INFEASIBLE)
 - Schedule Approval Workflow (Draft → Approved → Published → Archived)
 - Unpublish Schedule (Published → Draft for editing)
 - Reports Dashboard (Faculty Load, Room Usage, Sections, Schedule Status, Conflicts)
@@ -66,7 +66,7 @@
 |---|---|
 | Authentication (admin-only login) | ✅ Passing |
 | CRUD Operations | ✅ All endpoints verified |
-| AI Schedule Generation | ✅ OPTIMAL / PARTIAL / INFEASIBLE |
+| AI Schedule Generation | ✅ OPTIMAL / FEASIBLE / PARTIAL / INFEASIBLE |
 | Subject–Section Year/Semester Validation | ✅ Mismatched assignments rejected with 422; generation blocked (AI engine never called) |
 | Subject Lab Consistency Validation | ✅ Invalid lab_hours/lab_room_type combinations rejected with 422 on create and update |
 | AI Engine Unit Tests | ✅ 32 unit tests directly exercising the CP-SAT solver (`generate_schedule()`) via stdlib unittest — 32 passed, 0 failed, 0 skipped, 0 warnings/errors |
@@ -107,6 +107,8 @@
 ## Notes
 
 This document reflects the current state of the system as of September 2026. Final regression verification (September 16, 2026): backend 23 tests passed (100 assertions), AI scheduler 32 unit tests passed (0 failed/skipped/warnings), frontend production build passed, and full live lifecycle verified (generate → review/edit → approve → publish → print → unpublish).
+
+**September 27, 2026 — defects found by live API verification and fixed:** a fully-placed `FEASIBLE` solver result is now accepted (it was previously reported to the Admin as "No feasible schedule found."), and an unreachable AI engine now answers `502` while still writing a `failure` generation-log row (it previously returned a raw `500` and logged nothing). Three regression tests were added; the backend suite is now **26 tests / 116 assertions**, all passing.
 
 **Design decision:** Faculty login accounts were removed at the instructor's direction. Faculty remain as data records (name, availability, qualifications, workload, employment type, subject assignments) used by the scheduling engine; only the Admin/Department Head authenticates. Published schedules are distributed as printed/PDF hard copies.
 

diff --git a/documentation/System_Complete_Guide.md b/documentation/System_Complete_Guide.md
@@ -226,7 +226,7 @@ Conflicts are prevented at three independent points:
 ## 13. Verification & Tests
 
 - **AI scheduler unit tests**: 32 automated tests (Python standard-library `unittest`) directly exercise `generate_schedule()` with controlled fixtures — no database required. They cover faculty qualification, day-level availability (the solver enforces availability by day, not by hour), room type matching, room capacity, faculty/room no-double-booking, maximum teaching load, cross-section conflicts, the preferred scheduling window, and partial/infeasible handling with per-session reasons. Final run: **32 passed, 0 failed, 0 skipped, 0 warnings/errors**. The suite respects all solver statuses (OPTIMAL, FEASIBLE, PARTIAL, INFEASIBLE)
-- **Backend feature tests** (`php artisan test`, 23 tests / 100 assertions, all passing) run against a dedicated `scheduling_system_testing` database — real data is never touched
+- **Backend feature tests** (`php artisan test`, 26 tests / 116 assertions, all passing) run against a dedicated `scheduling_system_testing` database — real data is never touched. The September 27 additions cover solver-status acceptance (a fully-placed `FEASIBLE` result is stored as a draft and logged as `feasible`; `INFEASIBLE` is still rejected) and the unreachable-engine path (502 plus a `failure` log row)
 - **Section/year-level generation tests** verify the AI-generated schedule is attributed to the correct section, year level, and semester, that other sections' schedules are untouched, and that regeneration archives only the target section's drafts
 - **Subject–section year/semester validation tests**: matching assignments accepted; wrong-semester and wrong-year assignments rejected (HTTP 422); generation blocked with the AI engine never called on legacy mismatches
 - **Subject lab consistency tests**: `lab_hours > 0` without a canonical lab room type rejected; `lab_hours = 0` with a lab room type rejected; enforced on create and update

diff --git a/documentation/latestdoc.md b/documentation/latestdoc.md
@@ -77,9 +77,18 @@ Files: SectionsPage.tsx, SectionController.php, ScheduleController.php, SubjectC
 - AI scheduler test suite restored: 32 unit tests (Python stdlib unittest) exercising generate_schedule() directly with controlled fixtures
 Test Results: Backend 23 passed (100 assertions); AI engine 32 passed, 0 failed, 0 skipped, 0 warnings/errors; frontend production build passed; full live lifecycle regression verified (generate - review - approve - publish - print - unpublish)
 
+27/09/26
+Live API Verification & Scheduling Defect Fixes
+- Every documented status code and gate exercised against the running stack (Laravel on 8000, FastAPI on 8001, curl with a real Sanctum token); results recorded in documentation/Program-Flow.md
+- Defect 1: a fully-placed FEASIBLE solver result was rejected as a failure (422 "No feasible schedule found."). Fixed - FEASIBLE is accepted like OPTIMAL/PARTIAL and logged as 'feasible'
+- Defect 2: an unreachable AI engine returned a raw 500 with no generation log row. Fixed - the connection failure is caught, answered as 502 {"error":"AI engine unreachable", ...} and logged as 'failure'
+- Regression tests added (FEASIBLE accepted + logged, INFEASIBLE still rejected, unreachable engine -> 502 + log)
+Files: ScheduleController.php, tests/Feature/ScheduleGenerationSectionTest.php
+Test Results: Backend 26 passed (116 assertions); AI engine 32 passed
+
 Authentication & RBAC       ✅
 CRUD Operations             ✅
-AI Schedule Generation      ✅  (OPTIMAL / PARTIAL / INFEASIBLE)
+AI Schedule Generation      ✅  (OPTIMAL / FEASIBLE / PARTIAL / INFEASIBLE)
 Manual Edit Conflict Check  ✅
 Schedule Approval Workflow  ✅
 Reports (Workload, Rooms)   ✅

diff --git a/documentation/SRS.md b/documentation/SRS.md
@@ -19,6 +19,7 @@ The system automates faculty scheduling processes, reduces manual errors, detect
 - **CP-SAT**: Constraint Programming - SAT solver (Google OR-Tools)
 - **RBAC**: Role-Based Access Control
 - **OPTIMAL**: Schedule where all sessions are placed with no constraint violations
+- **FEASIBLE**: Every session was placed, but the solver reached its time budget before proving the result optimal
 - **PARTIAL**: Schedule where some sessions are placed, others unscheduled with explanations
 - **INFEASIBLE**: No valid schedule exists given current constraints
 
@@ -106,7 +107,7 @@ Three-tier architecture:
 |----|-------------|----------|--------|
 | FR-SCH-001 | Generate schedules for sections | High | ✅ Implemented |
 | FR-SCH-002 | Enforce 8 hard constraints | High | ✅ Implemented |
-| FR-SCH-003 | Return OPTIMAL/PARTIAL/INFEASIBLE status | High | ✅ Implemented |
+| FR-SCH-003 | Return OPTIMAL/FEASIBLE/PARTIAL/INFEASIBLE status (OPTIMAL, FEASIBLE and PARTIAL are accepted as successful results; INFEASIBLE is reported as a failure) | High | ✅ Implemented |
 | FR-SCH-004 | Provide explanations for unscheduled sessions | High | ✅ Implemented |
 | FR-SCH-005 | Best-effort scheduling (partial solutions) | High | ✅ Implemented |
 | FR-SCH-006 | Cross-section conflict prevention | High | ✅ Implemented |

diff --git a/README.md b/README.md
@@ -38,7 +38,7 @@ The system uses constraint-based scheduling techniques (Google OR-Tools CP-SAT) 
 - Room & Laboratory Management
 - Faculty Availability Management
 - Faculty–Subject Qualification Mapping
-- AI Schedule Generation (OPTIMAL / PARTIAL / INFEASIBLE)
+- AI Schedule Generation (OPTIMAL / FEASIBLE / PARTIAL / INFEASIBLE)
 - Schedule Approval Workflow (Draft → Approved → Published → Archived)
 - Session Editing with Conflict Detection
 - Publish Conflict Gate (prevents cross-section double-booking)
@@ -65,7 +65,7 @@ diagrams/         System Diagrams
 
 ## Development Status
 **Implementation and Testing — core features verified end-to-end:**
-- ✅ AI schedule generation verified live — returns OPTIMAL / PARTIAL / INFEASIBLE with per-session reasons when resources can't fit
+- ✅ AI schedule generation verified live — returns OPTIMAL / FEASIBLE / PARTIAL / INFEASIBLE with per-session reasons when resources can't fit
 - ✅ Approval → Publish workflow working
 - ✅ Zero cross-section conflicts (AI constraints + publish gate)
 - ✅ Admin prints/downloads published schedules for hard-copy distribution

diff --git a/documentation/User-Flow.md b/documentation/User-Flow.md
@@ -35,7 +35,7 @@ flowchart TD
     F2 --> E
     F1 -- yes --> F3[FastAPI → OR-Tools CP-SAT<br/>candidate schedule]
     F3 --> G{Result}
-    G -- OPTIMAL / PARTIAL --> H[DRAFT: Review / Manual Edit<br/>server-side conflict detection]
+    G -- OPTIMAL / FEASIBLE / PARTIAL --> H[DRAFT: Review / Manual Edit<br/>server-side conflict detection]
     G -- INFEASIBLE --> I[Reasons reported<br/>fix data and retry]
     I --> E
     H --> J[Approve]
